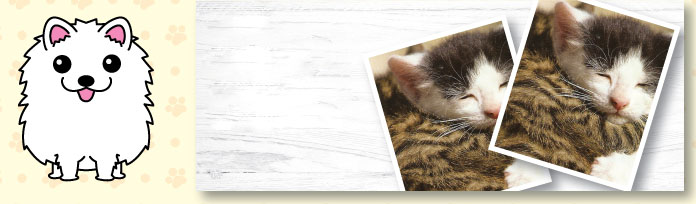
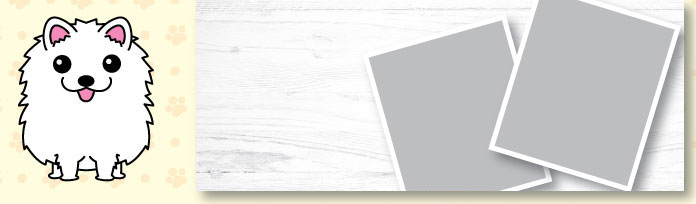
pc

Changed region(s): [[0.5129, 0.0, 0.9655, 0.9412], [0.3319, 0.2353, 0.3621, 0.2647]]

diff --git a/pc/css/style.css b/pc/css/style.css
@@ -38,13 +38,26 @@ html{background: url(../images/bg.png);}
 .wed_tite{ line-height: 55px; font-size: 16px; color:#FFF; padding-left: 30px; font-weight: 700;}
 .wed_tite_zi{width: 200px; font-size: 14px; color:#000; padding-left: 30px; }
 
-.wed_xpq{width: 696px; height: 205px; margin-top: 20px; background: url(../images/tu_02.jpg) no-repeat; text-align: left; }
+.wed_xpq{width: 696px; height: 205px; margin-top: 20px; background: url(../images/tu_02.jpg) no-repeat; text-align: left; position: relative; }
 .wed_xpq_tite{ line-height: 55px; font-size: 16px; color:#5dbeeb; padding-left: 210px; font-weight: 700;}
 .wed_xpq_zi{width: 160px; font-size: 14px; color:#000; padding-left: 210px; }
 
-.wed_buy{width: 696px; height: 205px; margin-top: 20px; background: url(../images/tu_03.jpg) no-repeat; text-align: left; }
+.wed_xpq_photo {position: absolute; height: 192px; overflow: hidden; width: 340px; right: 11px; top: 0;}
+.wed_xpq_photo .pic1 { transform: rotate(17deg); right: 25px; top: 1px; width: 138px; height: 162px; background: white; position: absolute; padding: 6px; z-index: 9; box-shadow: 1px 1px 4px #aaa;}
+.wed_xpq_photo .pic2 { transform: rotate(-17deg); right: 151px; top: 32px; width: 138px; height: 162px; background: white; position: absolute; padding: 6px; }
+
+.wed_buy{width: 696px; height: 205px; margin-top: 20px; background: url(../images/tu_03.jpg) no-repeat; text-align: left; position: relative;}
 .wed_buy_tite{ line-height: 55px; font-size: 16px; color:#5dbeeb; padding-left: 20px; font-weight: 700;}
 .wed_buy_zi{width: 160px; font-size: 14px; color:#000; padding-left: 20px; }
+
+.wed_buy_photo {position: absolute; height: 192px; overflow: hidden; width: 500px; left: 100px; top: 0;}
+.wed_buy_photo .pic { background: white; position: absolute; padding: 6px; box-shadow: 1px 1px 4px #aaa; z-index: 9; }
+.wed_buy_photo .pic1 { transform: rotate(14deg); left: 79px; top: 34px; width: 132px; height: 159px; }
+.wed_buy_photo .pic1 img { width: 132px; height: 159px; }
+.wed_buy_photo .pic2 { transform: rotate(-22deg); left: 254px; top: 88px; width: 91px; height: 110px; }
+.wed_buy_photo .pic2 img { width: 91px; height: 110px; }
+.wed_buy_photo .pic3 { transform: rotate(-41deg); left: 205px; top: -17px; width: 105px; height: 127px; z-index: 7; }
+.wed_buy_photo .pic3 img { width: 105px; height: 127px; }
 
 .wed_right{width: 210px; float: right; margin-top: 10px;}
 .wed_right_grzx{width: 200px; height: 80px; background-color:#59bf97; border: #fff46a solid 5px; border-radius: 5px; text-align: center;}

diff --git a/pc/index.php b/pc/index.php
@@ -14,11 +14,32 @@ require('head.php');
 <div class="wed_xpq">
     <p class="wed_xpq_tite">相片區</p>
     <p class="wed_xpq_zi">我們認為，動物與人類一樣是有感情，有感覺，寵物更是人類最好的朋友。</p>
+    <div class="wed_xpq_photo">
+    <?php
+        $i = 0;
+        $getdata = $my_db->selectRow('*', 'info', array('cid = "13," AND src != ""'), array('method' => 'DESC', 'field' => 'date'), '0,2');
+        while ($result = mysql_fetch_array($getdata)) {
+            $i ++;
+    ?>
+        <div class="pic<?= $i; ?>"><img src="<?= PIC_INFO_M . $result['src']; ?>" width="138" height="162" /></div>
+    <?php } ?>
+    </div>
 </div>
 
 <div class="wed_buy">
     <p class="wed_buy_tite">買賣平台</p>
     <p class="wed_buy_zi">我們認為，動物與人類一樣是有感情，有感覺，寵物更是人類最好的朋友。</p>
+    <div class="wed_buy_photo">
+    <?php
+        $i = 0;
+        $getdata = $my_db->selectRow('*', 'product', array('cid' => array('in' => '("29,", "30,", "31,", "32,")')), array('method' => 'DESC', 'field' => 'date'), '0,3');
+        while ($result = mysql_fetch_array($getdata)) {
+            $i ++;
+    ?>
+        <div class="pic pic<?= $i; ?>"><img src="<?= PIC_PRODUCT_S . $result['src']; ?>"></div>
+
+    <?php } ?>
+    </div>
 </div>
 
 <?php require('foot.php'); ?>

diff --git a/pc/head.php b/pc/head.php
@@ -42,6 +42,7 @@
                     </dt>
                     <dd>
                         <ul>
+                            <li><a href="javascript:;" name-cid="">全选</a></li>
                         <?php
                             $getdata = $my_db->selectRow('id, name, parent', 'catalog', array('type' => 3, 'parent' => ''));
                             while ($result = mysql_fetch_array($getdata)) {
@@ -65,6 +66,7 @@
                     </dt>
                     <dd>
                         <ul>
+                            <li><a href="javascript:;" name-service="">全选</a></li>
                         <?php foreach ($cms_service_type as $key => $value) { ?>
                             <li><a href="javascript:;" name-service="<?= $key; ?>"><?= $value; ?></a></li>
                         <?php } ?>

diff --git a/pc/include/fun_admin.php b/pc/include/fun_admin.php
@@ -164,7 +164,7 @@ function tableFields($fields = array(), $table = array()){
             $code .= '<th>' . $value[0] . '</th>';
         }
 		else {
-			$code .= '<th class="sorting' . ($_GET['field'] == $key ? '_' . $_GET['flag'] : '') . '"><a href="' . $q_url['134567'] . '&field=' . $key . '">' . $value[0] . '</a></th>';
+			$code .= '<th style="cursor: default;" class="sorting' . ($_GET['field'] == $key ? '_' . $_GET['flag'] : '') . '"><a href="' . $q_url['134567'] . '&field=' . $key . '">' . $value[0] . '</a></th>';
 		}
 	}
 	$code .= '</tr></thead><tbody>';

diff --git a/pc/ajax.php b/pc/ajax.php
@@ -19,7 +19,7 @@ if ($_REQUEST['action'] == 'add_cart') {
     $data = array();
 
     if ($_GET['cid']) {
-        $where = '`cid` = ' . intval($_GET['cid']);
+        $where = '`cid` = "' . addslashes($_GET['cid']) . '"';
 
     } else {
         $getdata = $my_db->selectRow('id, parent', 'catalog', array('type' => 3));
